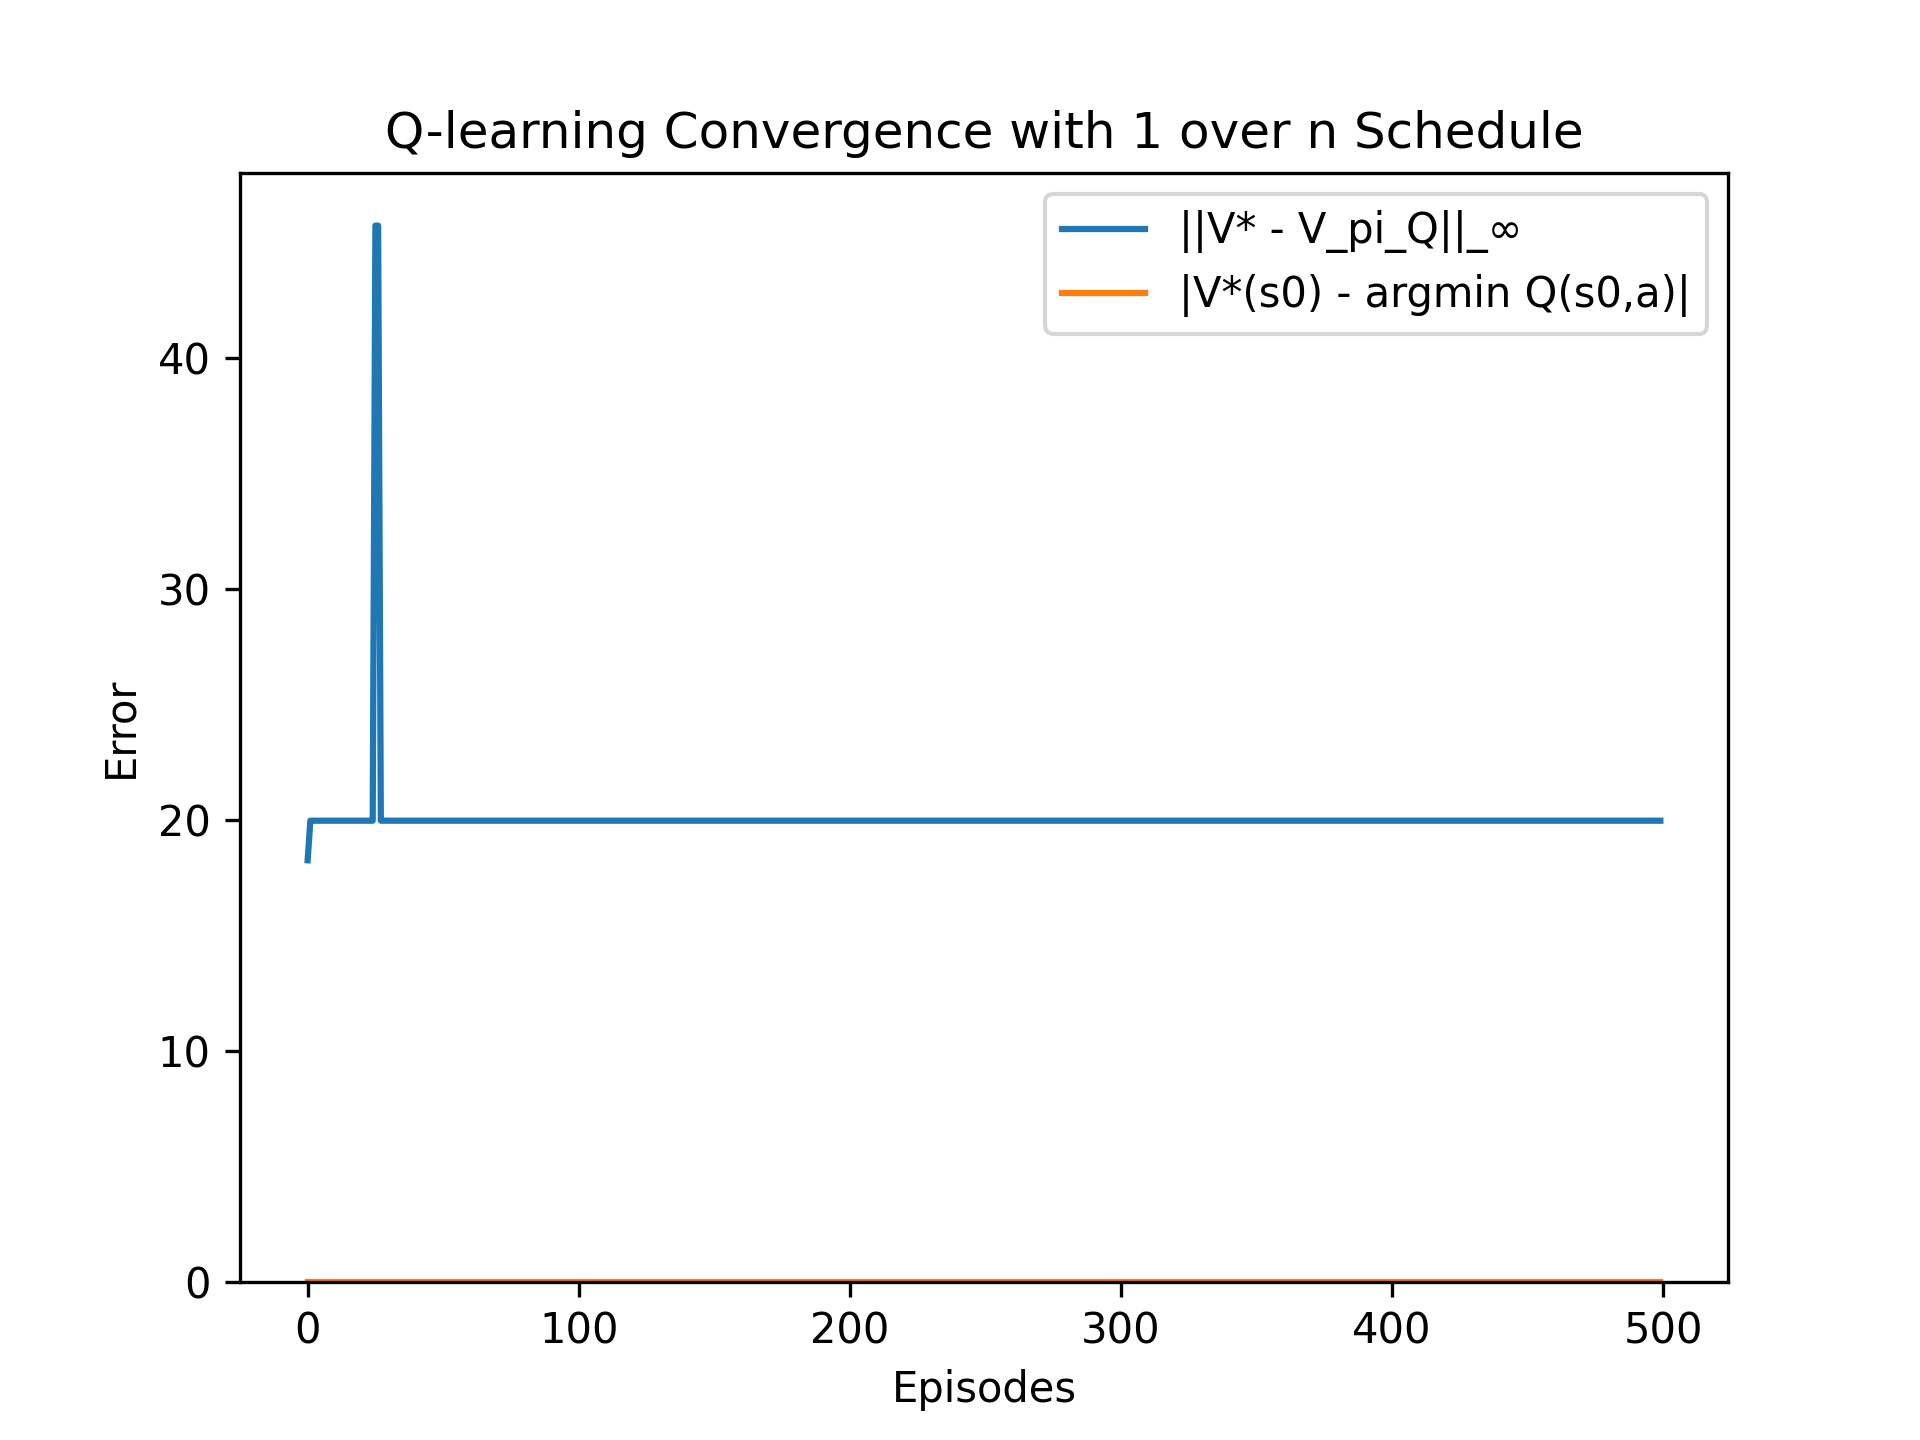
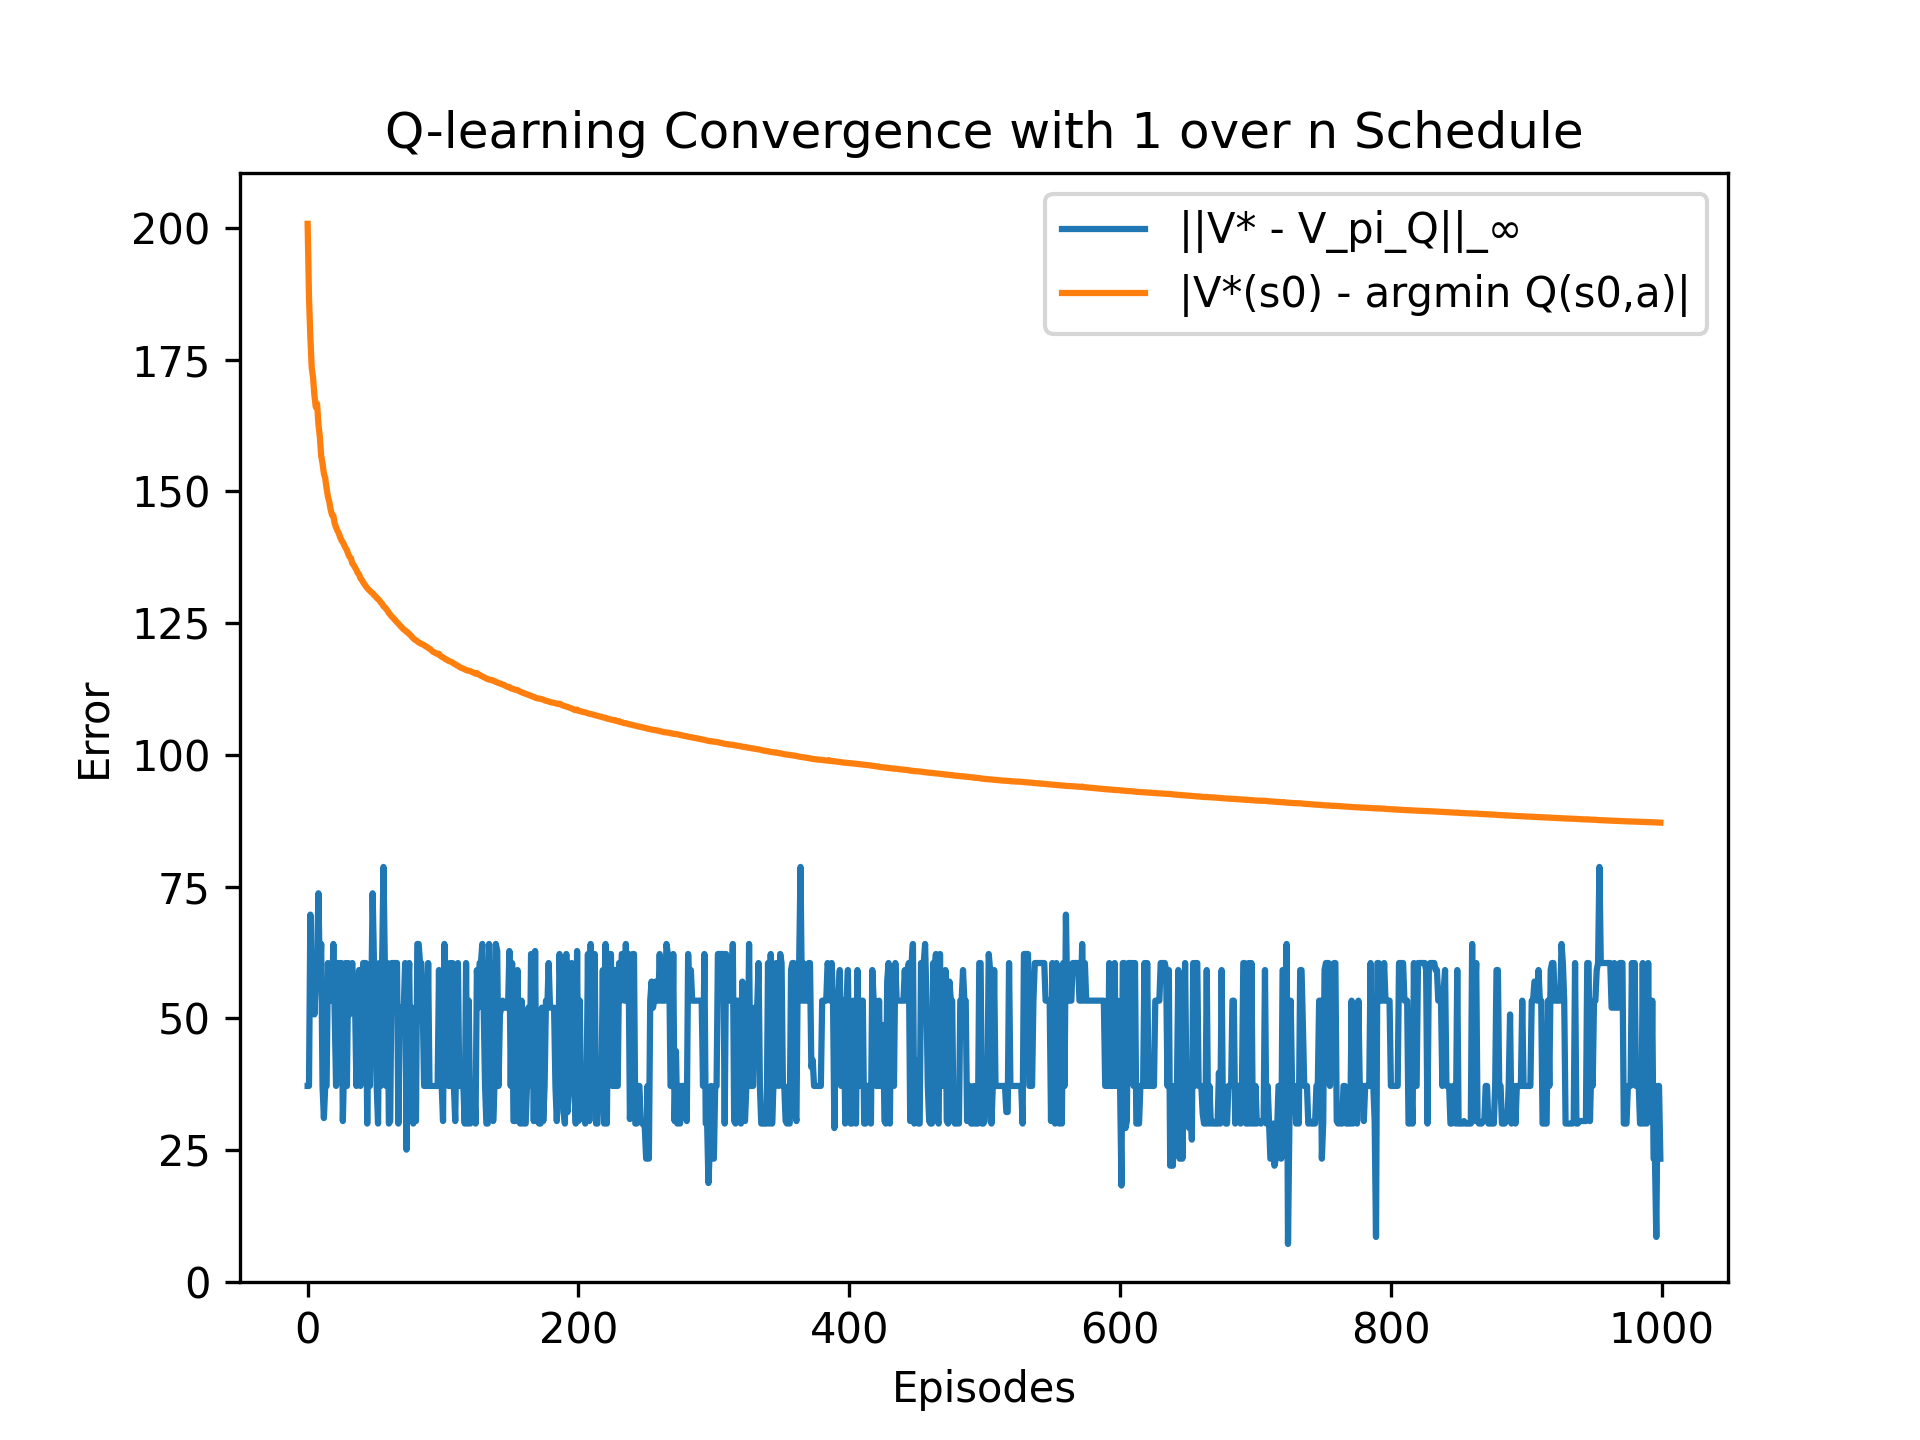
Fix Q-learning

diff --git a/assignment2/main_planning.py b/assignment2/main_planning.py
@@ -70,6 +70,18 @@ def build_pi_c(c):
             policy.append(0)  # terminal state, action doesn't matter
     return policy
 
+def build_pi_c_mu(c, mu):
+    policy = []
+    for s in range(NUM_STATES):
+        state = int_to_state(s)
+        unfinished_jobs = [i for i in range(NUM_JOBS) if state[i] == 0]
+        if unfinished_jobs:
+            best_job = max(unfinished_jobs, key=lambda i: c[i] * mu[i])
+            policy.append(best_job + 1)  # 1-based index
+        else:
+            policy.append(0)  # terminal state
+    return policy
+
 def policy_iteration(mu, c, initial_policy):
     policy = initial_policy[:]
     value_trace = []
@@ -170,8 +182,8 @@ def td0_learn_v_pi_c(env, pi_c, V_pi_c, num_episodes=10000, alpha_schedule=None,
 
     return V, max_errors, s0_errors
 
-
-def q_learning_with_eval(env, V_star, alpha_schedule,num_episodes=5000, epsilon=0.1, eval_interval=100):
+def q_learning_with_eval(env, V_star, alpha_schedule,
+                         num_episodes=10000, epsilon=0.1, eval_interval=100):
     gamma = 1.0
 
     Q = np.zeros((NUM_STATES, NUM_JOBS))
@@ -183,53 +195,61 @@ def q_learning_with_eval(env, V_star, alpha_schedule,num_episodes=5000, epsilon=
         state, _ = env.reset()
         done = False
 
+        # one episode of Q-learning
         while not done:
-            s_idx = state_to_index(state) # rddl state to int
-            state_bits = int_to_state(s_idx) # int to binary array
+            s_idx = state_to_index(state)
+            state_bits = int_to_state(s_idx)
             available_actions = [i for i in range(NUM_JOBS) if state_bits[i] == 0]
-
             if not available_actions:
-                break  # terminal state
+                break
 
-            # ε-greedy action selection among unfinished jobs
+            # epsilon-greedy among unfinished jobs
             if np.random.rand() < epsilon:
                 action = np.random.choice(available_actions)
             else:
                 q_vals = Q[s_idx, available_actions]
                 action = available_actions[np.argmin(q_vals)]
 
-            action_dict = {f'do_job{action + 1}': True}  # 1-based job index
+            action_dict = {f'do_job{action + 1}': True}
             next_state, reward, done, _, _ = env.step(action_dict)
             s_next_idx = state_to_index(next_state)
 
+            # update counts & alpha
             visit_counts[s_idx, action] += 1
             alpha = alpha_schedule(visit_counts[s_idx, action])
-            best_next_Q = np.min(Q[s_next_idx]) if any(int_to_state(s_next_idx)[i] == 0 for i in range(NUM_JOBS)) else 0
-            Q[s_idx, action] += alpha * (reward + gamma * best_next_Q - Q[s_idx, action])
 
+            # restrict lookahead to next state's unfinished jobs
+            next_bits = int_to_state(s_next_idx)
+            next_available_actions = [i for i in range(NUM_JOBS) if next_bits[i] == 0]
+            best_next_Q = (np.min(Q[s_next_idx, next_available_actions])
+                           if next_available_actions else 0)
+
+            Q[s_idx, action] += alpha * (reward + gamma * best_next_Q - Q[s_idx, action])
             state = next_state
 
-        # Evaluate greedy policy every eval_interval episodes
+        # evaluate every eval_interval episodes
         if episode % eval_interval == 0:
-            # Extract greedy policy considering only unfinished jobs
+            # build greedy policy π̂ from Q
             pi_Q = []
-            for s_idx in range(NUM_STATES):
-                state_bits = int_to_state(s_idx)
-                unfinished = [i for i in range(NUM_JOBS) if state_bits[i] == 0]
-                if unfinished:
-                    best_action = unfinished[np.argmin(Q[s_idx, unfinished])]
-                    pi_Q.append(best_action + 1)  # 1-based action
+            for s in range(NUM_STATES):
+                bits_s = int_to_state(s)
+                avail_s = [i for i in range(NUM_JOBS) if bits_s[i] == 0]
+                if avail_s:
+                    best_a = avail_s[np.argmin(Q[s, avail_s])]
+                    pi_Q.append(best_a + 1)
                 else:
-                    pi_Q.append(0)  # terminal
+                    pi_Q.append(0)
 
-            # Compute ||V* - V^pi_Q||_∞
+            # policy-evaluation
             V_pi_Q = compute_value_function_iterative(pi_Q, mu, c)
             max_errors.append(np.max(np.abs(V_star - V_pi_Q)))
-            # Compute |V*(s0) - argmin Q(s0,a)|
-            state_bits = int_to_state(0)
-            available_actions = [a for a in range(NUM_JOBS) if state_bits[a] == 0]
-            min_Q_s0 = np.min(Q[s_idx, available_actions]) if available_actions else 0
-            s0_errors.append(abs(V_star[s_idx] - min_Q_s0))
+
+            # s0-error at state 0
+            s0 = 0
+            bits0 = int_to_state(s0)
+            avail0 = [i for i in range(NUM_JOBS) if bits0[i] == 0]
+            min_Q_s0 = np.min(Q[s0, avail0]) if avail0 else 0
+            s0_errors.append(abs(V_star[s0] - min_Q_s0))
 
     return Q, max_errors, s0_errors
 
@@ -245,47 +265,73 @@ def plot_errors(max_errors, s0_errors, title, label_max='||V_pi - V_td||_∞', l
     plt.close()
 
 
+
 c = [1, 4, 6, 2, 9]
 mu = [0.6, 0.5, 0.3, 0.7, 0.1]
 
 NUM_STATES=32
 NUM_JOBS = len(c)
 
+# ---------------- Planning ----------------
 # Build pi_c and compute its value function
 pi_c = build_pi_c(c)
-# print(pi_c)
 V_pi_c = compute_value_function_iterative(pi_c, mu, c)
-# print(V_pi_c)
+
+# Compute the optimal policy and value function using policy iteration
 optimal_policy, V_optimal, trace = policy_iteration(mu, c, pi_c)
-# print(V_optimal)
+print("The optimal policy is:\n", optimal_policy)
+print("The optimal value function is:\n", V_optimal)
 
-# # Plot the values
-# plt.figure(figsize=(10, 5))
-# plt.plot(range(32), V_pi_c, marker='o')
-# plt.title('Value Function for Policy πc (Highest Cost Job First)')
-# plt.xlabel('State index')
-# plt.ylabel('V(s)')
-# plt.grid(True)
-# plt.savefig('plots/value_function_for_policy_pi.png', dpi=300)
-# plt.close()
+# Plot value function by state for policy Pi_c
+plt.figure(figsize=(10, 5))
+plt.plot(range(32), V_pi_c, marker='o')
+plt.title('Value Function for Policy πc (Highest Cost Job First)')
+plt.xlabel('State index')
+plt.ylabel('V(s)')
+plt.grid(True)
+plt.savefig('plots/value_function_for_policy_pi.png', dpi=300)
+plt.close()
 
-# plt.plot(trace, marker='o')
-# plt.title('Convergence of V(0) During Policy Iteration')
-# plt.xlabel('Iteration')
-# plt.ylabel('V(0)')
-# plt.grid(True)
-# plt.savefig('plots/convergence_of_v0_policy_iteration.png', dpi=300)
-# plt.close()
+# Plot V(0) during policy iteration
+plt.plot(trace, marker='o')
+plt.title('Convergence of V(0) During Policy Iteration')
+plt.xlabel('Iteration')
+plt.ylabel('V(0)')
+plt.grid(True)
+plt.savefig('plots/convergence_of_v0_policy_iteration.png', dpi=300)
+plt.close()
 
+# Compute c-mu policy and value function
+pi_c_mu = build_pi_c_mu(c, mu)
+V_pi_c_mu = compute_value_function_iterative(pi_c_mu, mu, c)
+print("The c-mu policy is:\n", pi_c_mu)
+print("The c-mu value function is:\n", V_pi_c_mu)
 
+# Compare both
+print("-------------------------------------------------------")
+print("Are the two policies the same? ", optimal_policy==pi_c_mu)
+print("Are their value function the same? ", V_optimal==V_pi_c_mu)
+
+# Plot V_pi_c vs V_pi*
+plt.figure(figsize=(10, 5))
+plt.plot(range(32), V_pi_c, marker='o', label="V_π_c")
+plt.plot(range(32), V_optimal, marker='X', label="V_optimal")
+plt.title('Value Function comparison for Policy πc vs. the optimal policy')
+plt.xlabel('State index')
+plt.ylabel('V(s)')
+plt.legend()
+plt.grid(True)
+plt.savefig('plots/value_function_comparison.png', dpi=300)
+plt.close()
+
+# ---------------- Learning ----------------
 env = pyRDDLGym.make(domain='job_scheduler_domain.rddl', instance='job_scheduler_instance.rddl')
 
 def alpha_1_over_n(n): return 1.0 / n if n > 0 else 1.0
 def alpha_const(n): return 0.01
 def alpha_decay(n): return 10.0 / (100 + n)
 
-
-# Run TD(0)
+# ------ TD(0) ------
 V_td, max_errors, s0_errors = td0_learn_v_pi_c(env, pi_c, V_pi_c, alpha_schedule=alpha_1_over_n)
 plot_errors(max_errors, s0_errors, title = 'TD(0) Convergence with 1 over n Schedule')
 
@@ -296,15 +342,17 @@ V_td3, max_errors3, s0_errors3 = td0_learn_v_pi_c(env, pi_c, V_pi_c, alpha_sched
 plot_errors(max_errors3, s0_errors3, title = 'TD(0) Convergence with Decay Schedule')
 
 
-# # Run Q-learning
-# Q_test, max_errors_test, s0_errors_test = q_learning_with_eval(env=env, V_star=V_optimal, epsilon=1, alpha_schedule=alpha_1_over_n, eval_interval=10)
-# plot_errors(max_errors_test, s0_errors_test, title = 'test', label_max='||V* - V_pi_Q||_∞', label_s0='|V*(s0) - argmin Q(s0,a)|')
+# ------ Q-learning ------
+Q, max_errors, s0_errors = q_learning_with_eval(env=env, V_star=V_optimal, alpha_schedule=alpha_1_over_n, eval_interval=10)
+plot_errors(max_errors, s0_errors, title = 'Q-learning Convergence with 1 over n Schedule', label_max='||V* - V_pi_Q||_∞', label_s0='|V*(s0) - argmin Q(s0,a)|')
 
-# Q, max_errors, s0_errors = q_learning_with_eval(env=env, V_star=V_optimal, alpha_schedule=alpha_1_over_n, eval_interval=10)
-# plot_errors(max_errors, s0_errors, title = 'Q-learning Convergence with 1 over n Schedule', label_max='||V* - V_pi_Q||_∞', label_s0='|V*(s0) - argmin Q(s0,a)|')
+Q, max_errors, s0_errors = q_learning_with_eval(env=env, V_star=V_optimal, alpha_schedule=alpha_const)
+plot_errors(max_errors, s0_errors, title = 'Q-learning Convergence with Constant Schedule', label_max='||V* - V_pi_Q||_∞', label_s0='|V*(s0) - argmin Q(s0,a)|')
 
-# Q, max_errors, s0_errors = q_learning_with_eval(env=env, V_star=V_optimal, alpha_schedule=alpha_const)
-# plot_errors(max_errors, s0_errors, title = 'Q-learning Convergence with Constant Schedule', label_max='||V* - V_pi_Q||_∞', label_s0='|V*(s0) - argmin Q(s0,a)|')
+Q, max_errors, s0_errors = q_learning_with_eval(env=env, V_star=V_optimal, alpha_schedule=alpha_decay)
+plot_errors(max_errors, s0_errors, title = 'Q-learning Convergence with Decay Schedule', label_max='||V* - V_pi_Q||_∞', label_s0='|V*(s0) - argmin Q(s0,a)|')
 
-# Q, max_errors, s0_errors = q_learning_with_eval(env=env, V_star=V_optimal, alpha_schedule=alpha_decay)
-# plot_errors(max_errors, s0_errors, title = 'Q-learning Convergence with Decay Schedule', label_max='||V* - V_pi_Q||_∞', label_s0='|V*(s0) - argmin Q(s0,a)|')
+# Now with epsilon 0.01
+Q, max_errors, s0_errors = q_learning_with_eval(env=env, V_star=V_optimal, alpha_schedule=alpha_decay, epsilon=0.01)
+plot_errors(max_errors, s0_errors, title = 'Q-learning Convergence with Decay Schedule (epsilon 0.01)', label_max='||V* - V_pi_Q||_∞', label_s0='|V*(s0) - argmin Q(s0,a)|')
+
